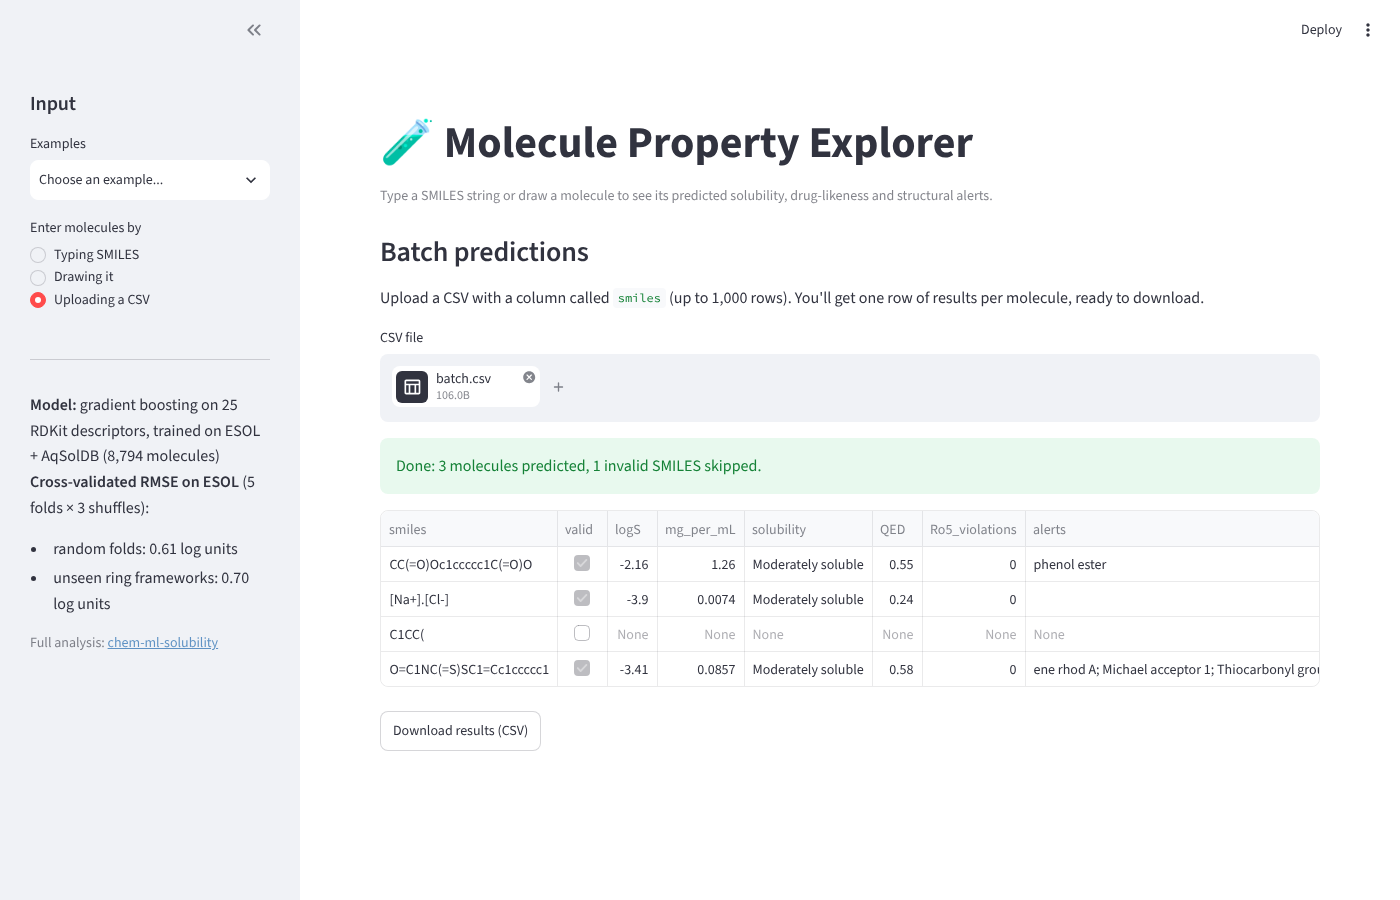
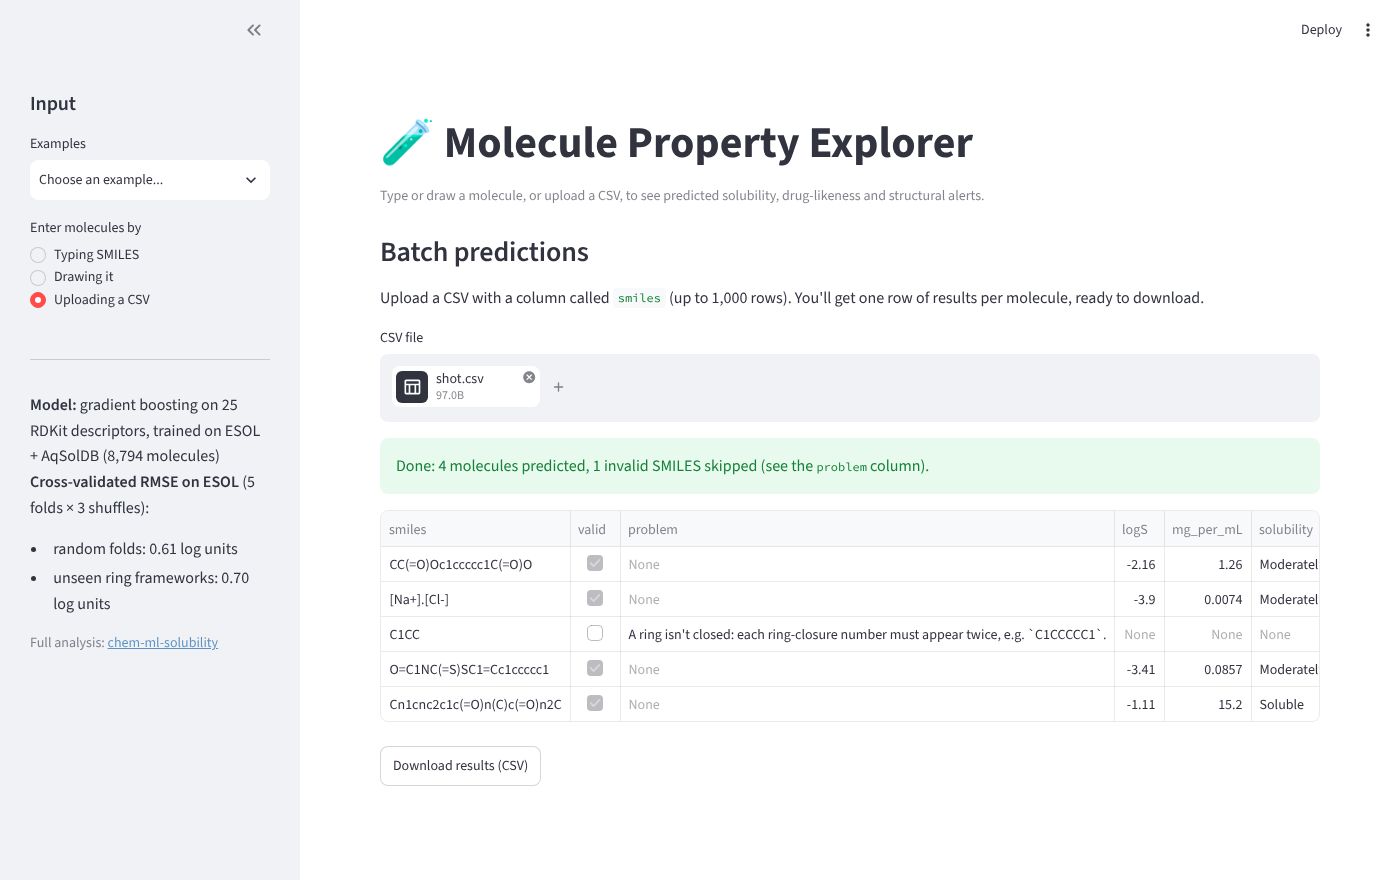
Tidy README and .gitignore
- README: exact results (0.607 / 0.695 / 0.52), clone and setup steps,
  Python version, updated screenshots, complete file list
- .gitignore: editor folders, Windows Zone.Identifier files, .env
- Remove an unused screenshot and models/.gitkeep
- Batch mode: show the problem column next to valid

diff --git a/chem_utils.py b/chem_utils.py
@@ -359,4 +359,6 @@ def predict_batch(smiles_list, bundle, catalogs, train_fps, max_heavy_atoms=None
             "outside_domain": similarity < DOMAIN_THRESHOLD,
             "warnings": " ".join(input_warnings(mol, max_heavy_atoms)),
         })
-    return pd.DataFrame(rows)
+    columns = ["smiles", "valid", "problem", "logS", "mg_per_mL", "solubility", "QED",
+               "Ro5_violations", "alerts", "nearest_similarity", "outside_domain", "warnings"]
+    return pd.DataFrame(rows).reindex(columns=columns)

diff --git a/README.md b/README.md
@@ -39,7 +39,7 @@ compound sharing a test molecule's ring framework removed too.
 | Model | RMSE, random folds | RMSE, unseen ring frameworks | Error on P=O compounds |
 | --- | --- | --- | --- |
 | Random forest, 7 descriptors, ESOL only (chem-ml-solubility) | 0.709 | 0.804 | 2.49 |
-| This app | 0.61 | 0.69 | 0.5 |
+| This app: gradient boosting, 25 descriptors, ESOL + AqSolDB | 0.607 | 0.695 | 0.52 |
 
 Errors are in log units (mol/L). Adding AqSolDB fixed the P=O compounds; the extra descriptors and
 gradient boosting improved everything else. The Ulrich et al. dataset scored the same overall but worse
@@ -71,13 +71,21 @@ accurate because near-duplicates in different datasets often have conflicting me
 
 ## Running it
 
+You'll need Python 3.13 or newer (tested on 3.13 and 3.14).
+
 ```bash
-python -m venv .venv && source .venv/bin/activate
+git clone https://github.com/Ash679-ux/Molecule-Property-Explorer.git
+cd Molecule-Property-Explorer
+
+python3 -m venv .venv
+source .venv/bin/activate      # on Windows PowerShell: .venv\Scripts\Activate.ps1
 pip install -r requirements.txt
+
 streamlit run app.py
 ```
 
-The trained model is in the repo (`models/solubility_model.joblib`, 2.6 MB), so the app runs straight away.
+The app opens in your browser at `http://localhost:8501`. The trained model is in the repo
+(`models/solubility_model.joblib`, 2.6 MB), so there's nothing to train first.
 
 ```bash
 python train_model.py   # retrain: downloads AqSolDB, cross-validates, saves the model
@@ -112,7 +120,9 @@ check, so it contains data from both datasets.
 - `app.py`: the Streamlit interface
 - `chem_utils.py`: chemistry and model code (features, predictions, alerts, logP map, domain check)
 - `train_model.py`: trains and evaluates the model, and saves it to `models/solubility_model.joblib`
-- `tests/`: the pytest suite, run by GitHub Actions on every push
+- `models/solubility_model.joblib`: the trained model and its evaluation results
+- `tests/` and `pytest.ini`: the test suite
+- `.github/workflows/tests.yml`: runs the tests on GitHub after every push and pull request
 - `data/delaney-processed.csv`: the ESOL dataset
 - `docs/screenshots/`: the images in this README
 - `requirements.txt` and `packages.txt`: the Python packages and the system libraries for deployment
